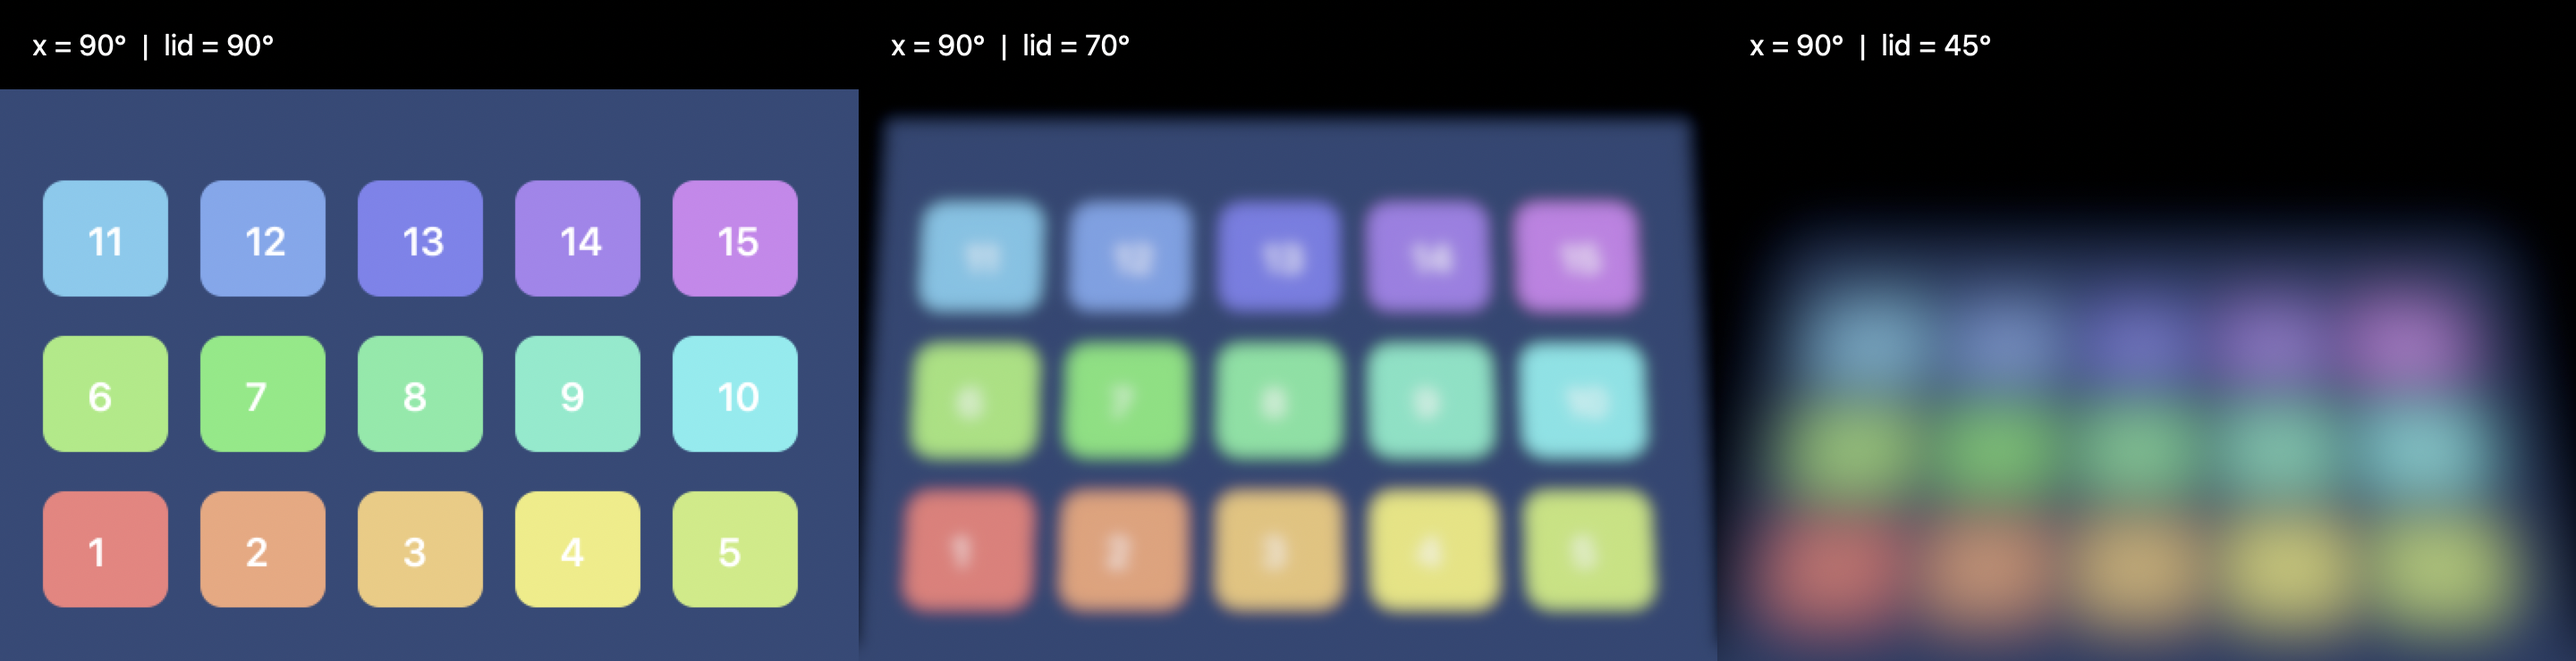
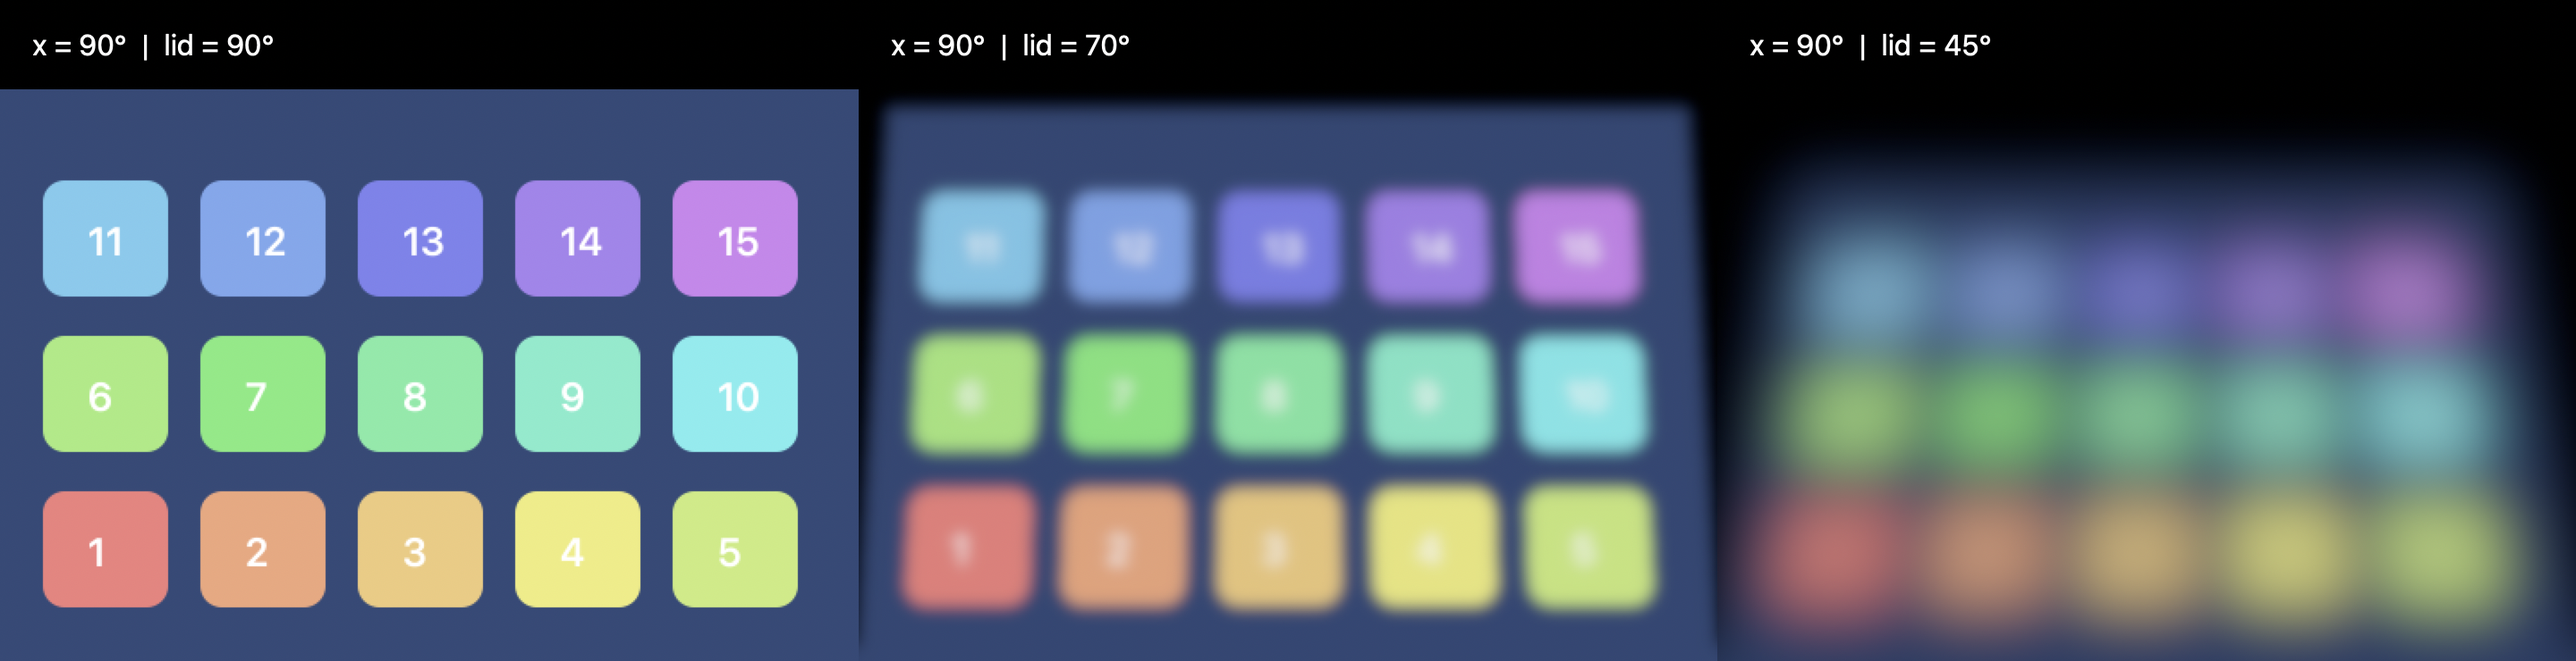
Apply 60% of the vertical foreshortening

diff --git a/Sources/EffectModel.swift b/Sources/EffectModel.swift
@@ -16,7 +16,7 @@ enum EffectModel {
     /// How much of the foreshortening is applied vertically: a plane tilted away
     /// by x - y appears cos(x - y) as tall, and at 1 the content's top lands
     /// exactly there, leaving the strip above it empty. 0 keeps the full height.
-    static let verticalShrink = 1.0
+    static let verticalShrink = 0.6
 
     /// The screen is treated as fixed at the reference angle x while the lid is
     /// really at y, so relative to the lid the content tilts away by x - y. Its
